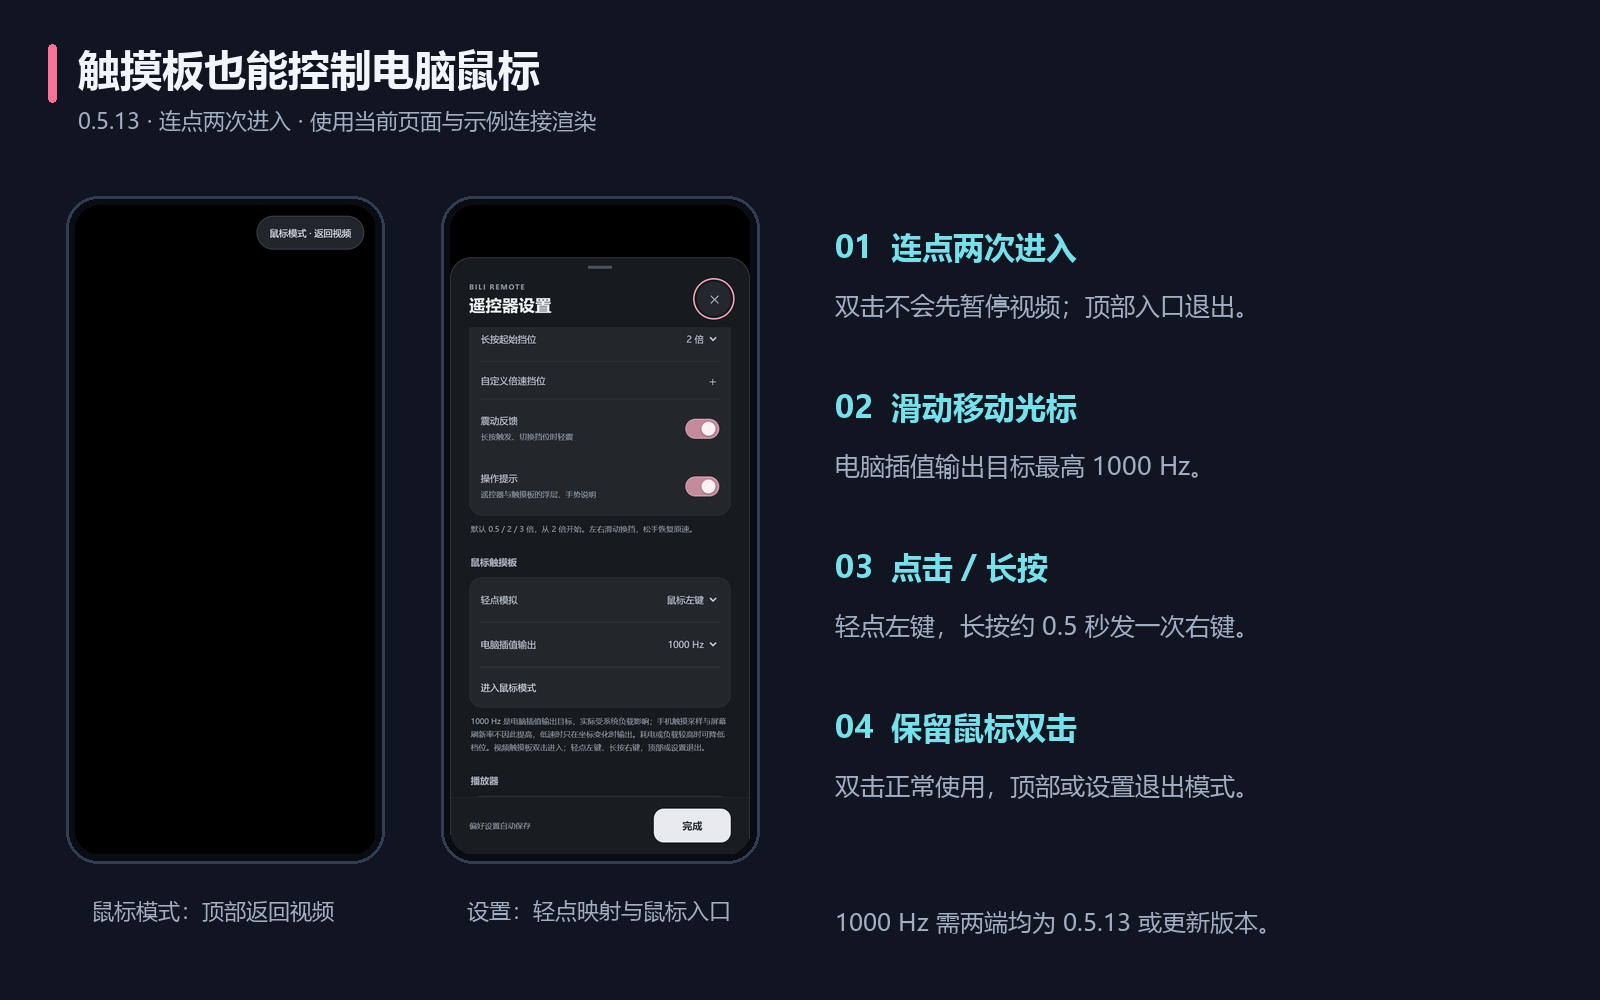
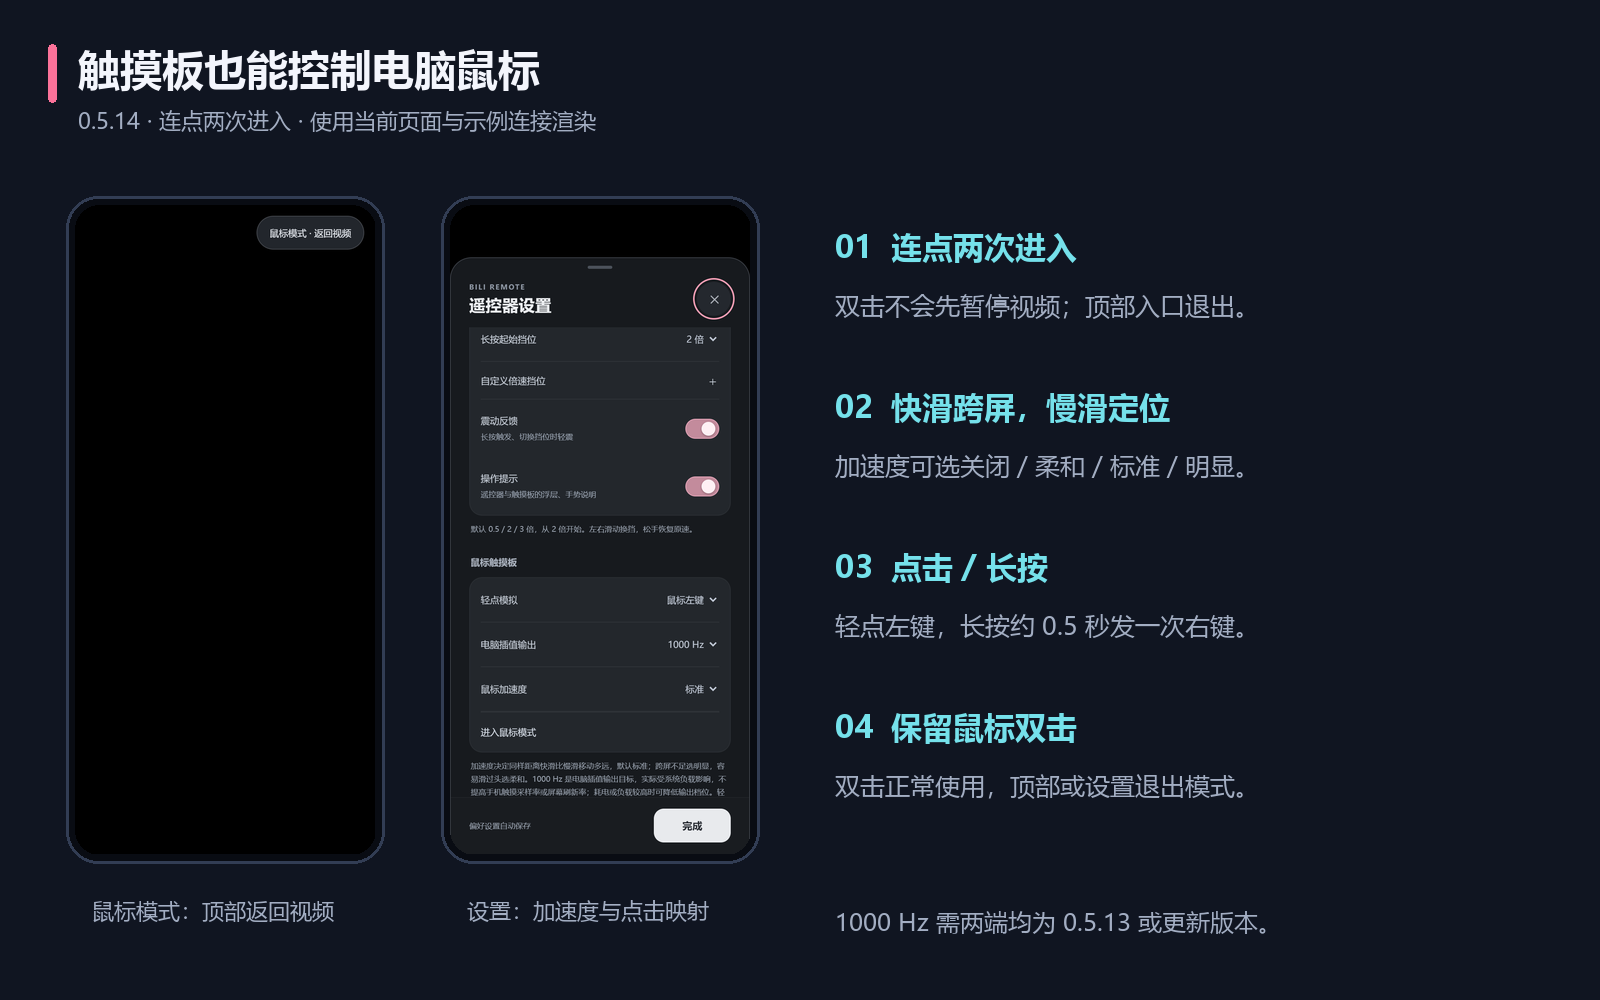
发布 0.5.14：修复短促快甩加速度并提供四档手感设置

Changed region(s): [[0.5312, 0.372, 0.7812, 0.496], [0.2812, 0.682, 0.4688, 0.806], [0.3125, 0.899, 0.4688, 0.93]]

diff --git a/android/app/src/main/assets/mouse.js b/android/app/src/main/assets/mouse.js
@@ -1,12 +1,15 @@
 (function (root) {
   // Smooth gain, never filter the finger's direction or invent inertial motion.
   class PointerAcceleration {
-    static gain(speed) {
-      const u = Math.max(0, Math.min(1, (speed - 40) / 1000));
-      return .85 + 2.15 * u * u * (3 - 2 * u);
+    constructor(profile = () => "standard") { this.profile = profile; }
+    static gain(speed, profile = "standard") {
+      if (profile === "off") return 1;
+      const maximum = profile === "gentle" ? 2.3 : profile === "strong" ? 6 : 4;
+      const u = Math.max(0, Math.min(1, (speed - 40) / 1360));
+      return .85 + (maximum - .85) * u * u * (3 - 2 * u);
     }
     reset(x, y, time) {
-      Object.assign(this, { x, y, time, gain: .85, lastDX: 0, lastDY: 0 });
+      Object.assign(this, { x, y, time, gain: PointerAcceleration.gain(0, this.profile()), lastDX: 0, lastDY: 0 });
       this.history = [{ x, y, time }];
     }
     sample(x, y, time) {
@@ -15,17 +18,22 @@
       const reversed = dx * this.lastDX + dy * this.lastDY < 0 && Math.hypot(dx, dy) >= 1.5;
       if (dt > 80 || reversed) {
         this.history = [{ x: this.x, y: this.y, time: this.time }];
-        if (dt > 80) this.gain = .85;
+        if (dt > 80) this.gain = PointerAcceleration.gain(0, this.profile());
       }
       this.x = x; this.y = y; this.time = time;
       this.history.push({ x, y, time });
       while (this.history.length > 2 && this.history[1].time <= time - 32) this.history.shift();
       const first = this.history[0];
       const speed = Math.hypot(x - first.x, y - first.y) * 1000 / Math.max(1, time - first.time);
-      const target = PointerAcceleration.gain(speed), previous = this.gain;
-      this.gain += (target - this.gain) * (1 - Math.exp(-dt / (target < this.gain ? 12 : 32)));
-      if (Math.hypot(dx, dy) >= .5) { this.lastDX = dx; this.lastDY = dy; }
-      const gain = (previous + this.gain) / 2;
+      const target = PointerAcceleration.gain(speed, this.profile()), previous = this.gain;
+      const distance = Math.hypot(dx, dy), length = target < previous ? 4 : 12;
+      // Ramp by travelled distance, not elapsed time. A short fast flick must
+      // not lose gain just because it spends fewer ms in the ramp. Integrate
+      // the exponential exactly so 60/120/240 Hz samples have equal travel.
+      const blend = -Math.expm1(-distance / length);
+      const gain = distance > 0 ? target + (previous - target) * blend * length / distance : previous;
+      this.gain += (target - previous) * blend;
+      if (distance >= .5) { this.lastDX = dx; this.lastDY = dy; }
       return { dx: dx * gain, dy: dy * gain };
     }
   }
@@ -148,12 +156,12 @@
     }
   }
   class TouchpadController {
-    constructor({ video, send, stream, outputHz = () => 1000, hint = () => {}, error = () => {}, haptic = () => {}, changed = () => {},
+    constructor({ video, send, stream, outputHz = () => 1000, accelerationProfile = () => "standard", hint = () => {}, error = () => {}, haptic = () => {}, changed = () => {},
                   tapButton = () => "left", timers = root, frames = root,
                   now = () => performance.now() }) {
       Object.assign(this, { video, send, hint, error, haptic, changed, tapButton, timers, now });
       this.phase = "video"; this.current = null; this.pendingTap = null;
-      this.acceleration = new PointerAcceleration();
+      this.acceleration = new PointerAcceleration(accelerationProfile);
       this.mouse = new MouseTransport({ send, stream, outputHz, error, timers, frames, now, changed: phase => {
         const previous = this.phase; this.phase = phase;
         if (phase !== "mouse") this.cancelTouch();

diff --git a/android/app/src/main/assets/index.html b/android/app/src/main/assets/index.html
@@ -41,8 +41,9 @@
     <section class="settings-section" aria-labelledby="mouseTitle"><div class="section-title"><h3 id="mouseTitle">鼠标触摸板</h3></div><div class="settings-card">
       <label class="setting-row"><span>轻点模拟</span><select id="mouseTapButton"><option value="left">鼠标左键</option><option value="right">鼠标右键</option></select></label>
       <label class="setting-row"><span>电脑插值输出</span><select id="mouseOutputHz"><option value="125">125 Hz</option><option value="250">250 Hz</option><option value="500">500 Hz</option><option value="1000" selected>1000 Hz</option></select></label>
+      <label class="setting-row"><span>鼠标加速度</span><select id="mouseAcceleration"><option value="off">关闭</option><option value="gentle">柔和</option><option value="standard" selected>标准</option><option value="strong">明显</option></select></label>
       <button type="button" id="enterMouse" class="launch-browser">进入鼠标模式</button>
-    </div><p class="section-note">1000 Hz 是电脑插值输出目标，实际受系统负载影响；手机触摸采样与屏幕刷新率不因此提高，低速时只在坐标变化时输出。耗电或负载较高时可降低档位。视频触摸板双击进入；轻点左键、长按右键，顶部或设置退出。</p></section>
+    </div><p class="section-note">加速度决定同样距离快滑比慢滑移动多远，默认标准；跨屏不足选明显，容易滑过头选柔和。1000 Hz 是电脑插值输出目标，实际受系统负载影响，不提高手机触摸采样率或屏幕刷新率；耗电或负载较高时可降低输出档位。轻点左键、长按右键，顶部或设置退出。</p></section>
     <section class="settings-section" aria-labelledby="playerTitle"><div class="section-title"><h3 id="playerTitle">播放器</h3></div><div class="settings-card">
       <label class="setting-row"><span>播放目标</span><select id="target"><option value="auto">自动识别当前视频</option><option value="browser">专用网页窗口 · 完整控制</option><option value="native">系统媒体 / 客户端 · 按接口能力</option></select></label>
       <div id="nativeSettings" hidden><label class="computer-field">媒体会话<select id="session"><option value="">自动识别哔哩哔哩客户端</option></select></label><button type="button" id="discover" class="secondary">检测浏览器 / 客户端</button><p class="section-note">先在普通 Edge / Chrome 播放视频，再检测并选择对应会话。系统接口通常支持暂停和进度；视频音量与倍速请使用专用网页窗口。</p></div>

diff --git a/android/app/src/main/assets/app.js b/android/app/src/main/assets/app.js
@@ -15,6 +15,7 @@ config.haptics = config.haptics !== false;
 config.show_hints = config.show_hints !== false;
 config.mouse_tap_button = config.mouse_tap_button === "right" ? "right" : "left";
 config.mouse_output_hz = [125, 250, 500, 1000].includes(config.mouse_output_hz) ? config.mouse_output_hz : 1000;
+config.mouse_acceleration = ["off", "gentle", "standard", "strong"].includes(config.mouse_acceleration) ? config.mouse_acceleration : "standard";
 delete config.token;
 let hudTimer, scanFallback, pairingTarget = null, computerListSignature = "";
 let speedPointer = null;
@@ -69,6 +70,7 @@ const gestures = new GestureEngine({ send, hint, preview: previewSeek, error, ra
 const touchpad = new TouchpadController({ video: gestures, send, stream: fields => connection.streamMouse(fields), hint, error, haptic,
   tapButton: () => config.mouse_tap_button,
   outputHz: () => config.mouse_output_hz,
+  accelerationProfile: () => config.mouse_acceleration,
   changed: phase => {
     byId("mouseControls").hidden = phase === "video";
     byId("mouseExit").textContent = phase === "connecting" ? "连接鼠标中 · 取消" : "鼠标模式 · 返回视频";
@@ -218,6 +220,8 @@ byId("mouseTapButton").value = config.mouse_tap_button;
 byId("mouseTapButton").onchange = () => { cancelControls(); config.mouse_tap_button = byId("mouseTapButton").value; persist(); };
 byId("mouseOutputHz").value = config.mouse_output_hz;
 byId("mouseOutputHz").onchange = () => { cancelControls(); config.mouse_output_hz = Number(byId("mouseOutputHz").value); persist(); };
+byId("mouseAcceleration").value = config.mouse_acceleration;
+byId("mouseAcceleration").onchange = () => { cancelControls(); config.mouse_acceleration = byId("mouseAcceleration").value; persist(); };
 byId("mouseExit").onclick = () => touchpad.exit();
 byId("enterMouse").onclick = () => { settings.close(); setStyle("touchpad"); touchpad.enter(); };
 byId("host").value = config.host || (location.protocol !== "file:" ? location.host : "");

diff --git a/scripts/smoke_mouse_touchpad.py b/scripts/smoke_mouse_touchpad.py
@@ -7,6 +7,7 @@ from playwright.sync_api import sync_playwright
 ROOT = Path(__file__).resolve().parents[1]
 sys.path.insert(0, str(ROOT))
 from desktop.browser import find_browser
+from desktop.version import APP_VERSION
 
 FIXTURE = """
 const sample={schema:2,target:'auto',ui_style:'touchpad',device_id:'test-mouse-phone',host:'127.0.0.1:19999',computer_id:'test-computer',credentials:{'test-computer':'test-key'}};
@@ -58,6 +59,7 @@ def main():
             page.wait_for_function("touchpad.phase==='video'")
             page.evaluate("window.openSettings()")
             assert page.locator("#mouseOutputHz").input_value()=="1000"
+            assert page.locator("#mouseAcceleration").input_value()=="standard"
             page.select_option("#mouseOutputHz", "500")
             page.select_option("#mouseTapButton", "right")
             page.check("#showHints", force=True) if not page.locator("#showHints").is_checked() else None
@@ -81,7 +83,28 @@ def main():
             page.reload()
             page.locator("body.connected").wait_for()
             assert page.evaluate("saved.mouse_tap_button==='left' && saved.mouse_output_hz===500 && !saved.show_hints")
-            page.mouse.dblclick(180,400,delay=80)
+            profile_travel={}
+            for profile in ("off","gentle","standard","strong"):
+                page.evaluate("window.openSettings()")
+                page.select_option("#mouseAcceleration",profile)
+                page.click("#enterMouse")
+                page.wait_for_function("touchpad.phase==='mouse'")
+                profile_travel[profile]=page.evaluate("""() => {
+                  const before=touchpad.mouse.x, time=performance.now();
+                  touchpad.down(50,300,innerWidth,innerHeight,time);
+                  for(let i=1;i<=12;i++)touchpad.move(50+100*i/12,300,time+60*i/12);
+                  touchpad.up(150,300,time+60);
+                  return touchpad.mouse.x-before;
+                }""")
+            assert abs(profile_travel["off"]-100)<1e-7
+            assert 100<profile_travel["gentle"]<profile_travel["standard"]<profile_travel["strong"]
+            page.click("#mouseExit")
+            page.reload()
+            page.locator("body.connected").wait_for()
+            assert page.evaluate("saved.mouse_acceleration==='strong'")
+            page.evaluate("window.openSettings()")
+            assert page.locator("#mouseAcceleration").input_value()=="strong"
+            page.click("#enterMouse")
             page.wait_for_function("touchpad.phase==='mouse'")
             for width,height in [(320,568),(360,640),(390,844),(412,915),(568,320),(844,390),(768,1024)]:
                 page.set_viewport_size({"width":width,"height":height})
@@ -96,10 +119,11 @@ def main():
             page.wait_for_function("touchpad.phase==='video' && !connection.connected")
             page.wait_for_timeout(550)
             assert page.evaluate("sent.every(q=>q.cmd!=='mouse_click')")
-            report={"single_video_tap":True,"double_tap_enters_without_pause":True,"real_pointer_movement":True,
+            report={"version":APP_VERSION,"single_video_tap":True,"double_tap_enters_without_pause":True,"real_pointer_movement":True,
                     "default_left_click":True,"long_right_once_with_haptic":True,"configurable_right_click":True,
                     "normal_double_click_stays_in_mouse_mode":True,"preferences_survive_reload":True,
-                    "exit_accessible_with_hints_hidden":True,"mouse_layout_viewports":7,"output_1000_default_and_500_persisted":True,"background_clears_hold_and_session":True}
+                    "exit_accessible_with_hints_hidden":True,"mouse_layout_viewports":7,"output_1000_default_and_500_persisted":True,"background_clears_hold_and_session":True,
+                    "acceleration_profiles_applied_and_persisted":True,"synthetic_100px_60ms_profile_travel":profile_travel}
             (ROOT / ".tooling/mouse-touchpad-report.json").write_text(json.dumps(report,indent=2),encoding="utf-8")
             print(json.dumps(report))
         finally:

diff --git a/scripts/build_docs_images.py b/scripts/build_docs_images.py
@@ -285,9 +285,9 @@ def build_mouse():
     phone(image, RAW / "mobile-mouse.png", 75, 205, 300)
     phone(image, RAW / "mobile-mouse-settings.png", 450, 205, 300)
     text(draw, (92, 895), "鼠标模式：顶部返回视频", 22, MUTED)
-    text(draw, (467, 895), "设置：轻点映射与鼠标入口", 22, MUTED)
+    text(draw, (467, 895), "设置：加速度与点击映射", 22, MUTED)
     items = [("01  连点两次进入", "双击不会先暂停视频；顶部入口退出。"),
-             ("02  滑动移动光标", "电脑插值输出目标最高 1000 Hz。"),
+             ("02  快滑跨屏，慢滑定位", "加速度可选关闭 / 柔和 / 标准 / 明显。"),
              ("03  点击 / 长按", "轻点左键，长按约 0.5 秒发一次右键。"),
              ("04  保留鼠标双击", "双击正常使用，顶部或设置退出模式。")]
     for index, (title, caption) in enumerate(items):

diff --git a/desktop/version.py b/desktop/version.py
@@ -1,2 +1,2 @@
 """Version of this build, independent of installed players or network access."""
-APP_VERSION = "0.5.13"
+APP_VERSION = "0.5.14"

diff --git a/README.md b/README.md
@@ -4,11 +4,11 @@
 
 ![Bili Remote：传统遥控器与纯黑触摸板界面预览](docs/images/overview.png)
 
-**当前版本：0.5.13** · Windows + Android · 局域网连接 · 无需浏览器扩展
+**当前版本：0.5.14** · Windows + Android · 局域网连接 · 无需浏览器扩展
 
 [下载最新版本与发布说明](https://github.com/Nichijin/bili-remote/releases/latest) · [完整更新日志](CHANGELOG.md) · [查看提交记录](https://github.com/Nichijin/bili-remote/commits/main/)
 
-0.5.13 新增 **1000 Hz 电脑插值输出目标**，可选 125 / 250 / 500 / 1000 Hz，手机新采样尽快发送。它是软件光标输出频率，不是手机触摸采样率或 USB 硬件轮询率；实际受系统和网络限制。**请同时更新两端。** 详见[鼠标使用方法](docs/USAGE.md#鼠标模式)与[实现和验证](docs/MOUSE_CONTROL.md)。
+0.5.14 修复 **短促快甩反而移动更短** 的加速度问题，增益随手指行程平滑变化，默认标准档提高高速移动范围，并新增关闭 / 柔和 / 标准 / 明显四档。**电脑已是 0.5.13 时可只更新安卓端**；通过电脑网页入口使用时更新电脑端资源。保留最高 1000 Hz 电脑插值输出目标。详见[鼠标使用方法](docs/USAGE.md#鼠标模式)与[实现和验证](docs/MOUSE_CONTROL.md)。
 
 ## 先从这里开始
 
@@ -39,7 +39,7 @@
 
 ![安装两端、同一路由器、首次配对、后续自动重连的四步流程](docs/images/connection-flow.png)
 
-1. 电脑安装 `BiliRemote-Setup-0.5.13.exe`，手机安装 `bili-remote-0.5.13.apk`。电脑无需安装 Python。
+1. 电脑安装 `BiliRemote-Setup-0.5.14.exe`，手机安装 `bili-remote-0.5.14.apk`。电脑无需安装 Python。
 2. 两端接入同一路由器；电脑接网线、手机连 WiFi 也可以。打开电脑软件。
 3. 手机自动发现电脑，首次输入电脑端显示的 **6 位配对码**。
 4. 在电脑软件点击 **“打开哔哩哔哩 · 无需扩展”**，或在手机 **“设置 → 播放器 → 在电脑打开哔哩哔哩”** 中主动打开播放窗口，再选一个视频。
@@ -47,7 +47,7 @@
 
 安装包可从 [Releases 发布页](https://github.com/Nichijin/bili-remote/releases/latest)下载，普通使用只需上面两个文件。其余文件的用途见[安装包说明](docs/FAQ.md)。源码构建输出位于 `dist/`；GitHub 自动生成的 Source code 源码包不包含安装包。
 
-安装包、整合包和校验文件均带版本号，以上以 0.5.13 为例；后续构建会自动使用项目的新版本号。
+安装包、整合包和校验文件均带版本号，以上以 0.5.14 为例；后续构建会自动使用项目的新版本号。
 
 详细步骤与连接界面见[快速上手](docs/QUICK_START.md)。
 

diff --git a/docs/QUICK_START.md b/docs/QUICK_START.md
@@ -10,8 +10,8 @@
 
 | 安装到哪里 | 文件 | 系统要求 |
 | --- | --- | --- |
-| 电脑 | `BiliRemote-Setup-0.5.13.exe` | Windows 10 1809 或更新，64 位 |
-| 手机 | `bili-remote-0.5.13.apk` | Android 8 或更新 |
+| 电脑 | `BiliRemote-Setup-0.5.14.exe` | Windows 10 1809 或更新，64 位 |
+| 手机 | `bili-remote-0.5.14.apk` | Android 8 或更新 |
 
 向维护者获取安装文件，或参考[开发说明](DEVELOPMENT.md)自行构建。GitHub 的 **Code → Download ZIP** 下载的是源码，不能当作安装包直接运行。文件名中的 `debug` 表示目前使用开发签名，手机仍可直接安装该 APK。
 
@@ -64,6 +64,6 @@
 
 震动默认开启：长按触发和实际切换挡位时各轻震一次。在传统遥控器右上角点击震动图标，或在设置中关闭“震动反馈”，两种模式同时生效。
 
-“设置 → 操作偏好”可关闭两种模式的操作提示，或展开“自定义倍速挡位”配置最多 5 挡。0.5.13 提供 1000 Hz 电脑插值输出目标，请同时更新电脑和安卓端；可在“鼠标触摸板 → 电脑插值输出”选择档位。它不改变手机采样率。操作仍为：触摸板连点两次进入，滑动移动光标，长按右键，顶部返回视频。轻点左键、长按右键，鼠标双击正常使用。普通浏览器的系统媒体选择与完整网页控制方式见[浏览器控制说明](BROWSER_CONTROL.md)。
+“设置 → 操作偏好”可关闭两种模式的操作提示，或展开“自定义倍速挡位”配置最多 5 挡。0.5.14 提供 1000 Hz 电脑插值输出目标，请同时更新电脑和安卓端；可在“鼠标触摸板 → 电脑插值输出”选择档位。它不改变手机采样率。操作仍为：触摸板连点两次进入，滑动移动光标，长按右键，顶部返回视频。轻点左键、长按右键，鼠标双击正常使用。普通浏览器的系统媒体选择与完整网页控制方式见[浏览器控制说明](BROWSER_CONTROL.md)。
 
 完成首次连接后，保持电脑端运行。以后打开手机 App，会使用保存的授权尝试自动重连。电脑离线、网络隔离或防火墙阻挡时，自动连接仍需先解决网络问题。

diff --git a/docs/FAQ.md b/docs/FAQ.md
@@ -139,11 +139,11 @@
 
 | 文件 | 用途 | 普通用户是否需要 |
 | --- | --- | --- |
-| `BiliRemote-Setup-0.5.13.exe` | Windows 安装包，支持升级和卸载 | 电脑需要 |
-| `bili-remote-0.5.13.apk` | 安卓安装包 | 手机需要 |
+| `BiliRemote-Setup-0.5.14.exe` | Windows 安装包，支持升级和卸载 | 电脑需要 |
+| `bili-remote-0.5.14.apk` | 安卓安装包 | 手机需要 |
 | `BiliRemote-Desktop.exe` | 电脑程序本体，构建及安装器使用 | 安装版用户不必单独下载 |
-| `bili-remote-kit-0.5.13.zip` | 两端文件与说明的集合 | 可选，内容与单独文件重叠 |
-| `SHA256-0.5.13.json` | 文件校验值 | 可选 |
+| `bili-remote-kit-0.5.14.zip` | 两端文件与说明的集合 | 可选，内容与单独文件重叠 |
+| `SHA256-0.5.14.json` | 文件校验值 | 可选 |
 
 文件名中的 0.5.6 是版本号示例，后续版本会自动替换。通常只需下载对应版本的 Windows 安装包和安卓 APK。
 | APK 的 `.idsig` | Android 增量签名辅助文件 | 普通手动安装不需要 |
@@ -161,7 +161,7 @@ Windows 使用新版安装器覆盖旧版，保留原目录和数据；安卓使
 优先使用 **Android Studio 官方模拟器**，创建 Android 8 或更新版本的虚拟设备，启动后把 APK 拖入安装，或在已安装 Android SDK Platform-Tools 的情况下执行：
 
 ```powershell
-adb install -r dist/bili-remote-0.5.13.apk
+adb install -r dist/bili-remote-0.5.14.apk
 ```
 
 模拟器访问宿主电脑服务时，手动输入 `10.0.2.2:8765`。模拟器的虚拟网络不一定转发局域网广播，因此手动连接成功不代表真实 WiFi 自动发现已验证。长按、取消触摸、前后台切换和多点触摸仍应补充实机检查；电脑鼠标不能完整替代所有手机触摸行为。
